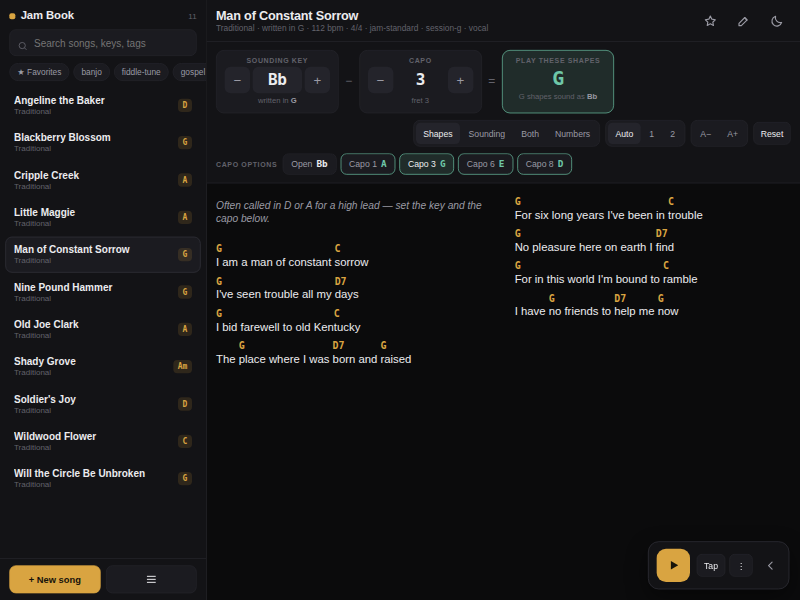
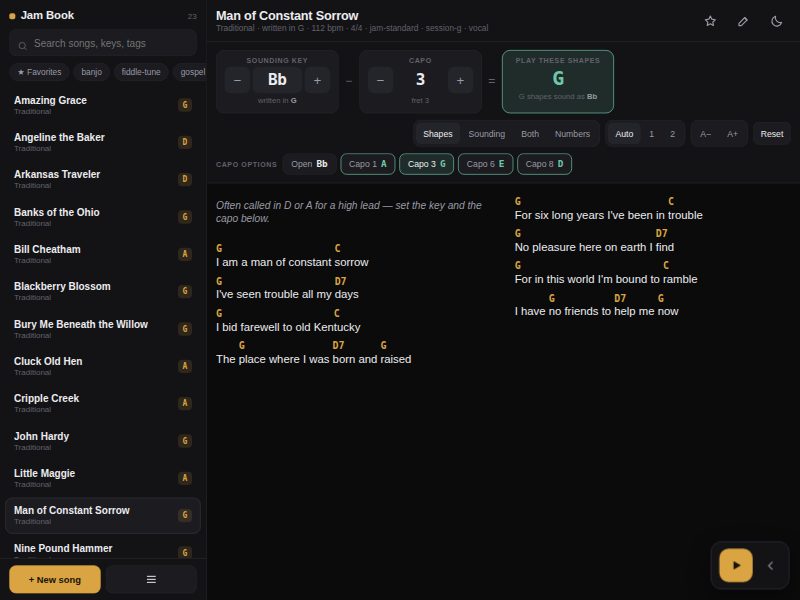
feat(jam-book): twelve more traditional standards, and follow the chart's meter
Brings the starter catalog to 23 public-domain tunes: Whiskey Before
Breakfast, Red Haired Boy, Arkansas Traveler, Sally Goodin, Bill Cheatham,
Cluck Old Hen, Roll in My Sweet Baby's Arms, Banks of the Ohio, Wayfaring
Stranger, Bury Me Beneath the Willow, John Hardy and Amazing Grace —
fiddle tunes as bar grids, songs with verse/chorus, two waltzes and a
minor-key gospel number.

Opening a song now also sets the metronome's meter from {time:}, not just
the tempo from {tempo:}, so the waltzes click in 3/4 on their own. Neither
is changed out from under you while the metronome is running.

Claude-Session: https://claude.ai/code/session_01WY38kPURCNg8E5UMwB1aYA

diff --git a/apps/jam-book/index.html b/apps/jam-book/index.html
@@ -848,6 +848,15 @@ function keysFor(song) {
 }
 function clampCapo(n) { return Math.max(0, Math.min(MAX_CAPO, parseInt(n, 10) || 0)); }
 
+/* {time: 3/4} -> three beats to the bar. Only the meters the metronome offers. */
+function beatsFromTime(time) {
+  const m = String(time || '').match(/^(\d+)\s*\/\s*(\d+)$/);
+  if (!m) return 0;
+  const top = +m[1], bottom = +m[2];
+  if (bottom === 8 && top === 6) return 6;
+  return [2, 3, 4].includes(top) ? top : 0;
+}
+
 /* ------------------------------------------------------------ rendering */
 function renderChart() {
   const chart = el('chart');
@@ -1045,8 +1054,11 @@ function selectSong(id) {
   renderChart();
   const song = currentSong();
   if (song) {
-    const t = songInfo(song).meta.tempo;
-    if (t) setBpm(t, true);
+    /* the chart carries the feel — follow it unless the metronome is running */
+    const meta = songInfo(song).meta;
+    if (meta.tempo && !met.on) setBpm(meta.tempo, true);
+    const beats = beatsFromTime(meta.time);
+    if (beats && !met.on) setBeats(beats);
   }
   el('chartScroll').scrollTop = 0;
   document.body.classList.remove('nav-open');
@@ -1464,9 +1476,12 @@ function wire() {
   });
   on('metSongTempo', 'click', () => {
     const s = currentSong();
-    const t = s && songInfo(s).meta.tempo;
-    if (t) { setBpm(t); toast('Tempo from the chart: ' + t + ' bpm'); }
+    const meta = s && songInfo(s).meta;
+    const beats = meta && beatsFromTime(meta.time);
+    if (beats) setBeats(beats);
+    if (meta && meta.tempo) toast('From the chart: ' + meta.tempo + ' bpm' + (meta.time ? ', ' + meta.time : ''));
     else toast('This chart has no {tempo:} set');
+    if (meta && meta.tempo) setBpm(meta.tempo);
   });
 
   /* keyboard shortcuts (handy with an iPad keyboard) */
@@ -1746,7 +1761,254 @@ I have [G]no friends to [D7]help me [G]now
 [G]Just to get a little [D7]brew, just to get a little [G]brew
 {end_of_verse}
 
-{chorus}`
+{chorus}`,
+
+`{title: Whiskey Before Breakfast}
+{artist: Traditional}
+{key: D}
+{tempo: 120}
+{time: 4/4}
+{tags: fiddle-tune, jam-standard, session-d, instrumental}
+{comment: Called everywhere. Both parts sit in first position in D.}
+
+{start_of_grid: A part}
+| D . . . | G . . . | D . . . | A . . . |
+| D . . . | G . . . | D . A . | D . . . |
+{end_of_grid}
+
+{start_of_grid: B part}
+| D . . . | G . . . | D . . . | A . . . |
+| D . . . | G . . . | D . A . | D . . . |
+{end_of_grid}`,
+
+`{title: Red Haired Boy}
+{artist: Traditional}
+{key: A}
+{tempo: 122}
+{time: 4/4}
+{tags: fiddle-tune, jam-standard, modal, instrumental}
+{comment: Mixolydian — that G is the flat seven. Also called The Little Beggarman.}
+
+{start_of_grid: A part}
+| A . . . | G . . . | A . . . | A . E . |
+| A . . . | G . . . | A . E . | A . . . |
+{end_of_grid}
+
+{start_of_grid: B part}
+| A . . . | G . . . | A . . . | A . E . |
+| A . . . | G . . . | A . E . | A . . . |
+{end_of_grid}`,
+
+`{title: Arkansas Traveler}
+{artist: Traditional}
+{key: D}
+{tempo: 126}
+{time: 4/4}
+{tags: fiddle-tune, jam-standard, session-d, instrumental}
+
+{start_of_grid: A part}
+| D . . . | D . . . | D . . . | A . . . |
+| D . . . | D . . . | A . . . | D . . . |
+{end_of_grid}
+
+{start_of_grid: B part}
+| G . . . | D . . . | G . . . | D . A . |
+| G . . . | D . . . | A . . . | D . . . |
+{end_of_grid}`,
+
+`{title: Sally Goodin}
+{artist: Traditional}
+{key: A}
+{tempo: 130}
+{time: 4/4}
+{tags: fiddle-tune, jam-standard, instrumental}
+{comment: Two chords and a hundred variations — everyone takes a different one.}
+
+{start_of_grid: A part}
+| A . . . | A . . . | A . . . | E . . . |
+| A . . . | A . . . | E . . . | A . . . |
+{end_of_grid}
+
+{start_of_grid: B part}
+| A . . . | A . . . | E . . . | E . . . |
+| A . . . | A . . . | E . . . | A . . . |
+{end_of_grid}`,
+
+`{title: Bill Cheatham}
+{artist: Traditional}
+{key: A}
+{tempo: 128}
+{time: 4/4}
+{tags: fiddle-tune, jam-standard, instrumental}
+
+{start_of_grid: A part}
+| A . . . | A . . . | D . . . | A . . . |
+| A . . . | A . . . | E . . . | A . . . |
+{end_of_grid}
+
+{start_of_grid: B part}
+| D . . . | D . . . | A . . . | A . . . |
+| D . . . | D . . . | A . E . | A . . . |
+{end_of_grid}`,
+
+`{title: Cluck Old Hen}
+{artist: Traditional}
+{key: A}
+{tempo: 118}
+{time: 4/4}
+{tags: fiddle-tune, modal, old-time, banjo}
+{comment: Modal A. Crooked in a lot of settings — follow whoever started it.}
+
+{start_of_grid: A part}
+| A . . . | A . . . | G . . . | A . . . |
+| A . . . | A . . . | G . . . | A . . . |
+{end_of_grid}
+
+{start_of_verse}
+[A]My old hen's a good old hen
+She lays eggs for the [G]railroad [A]men
+Sometimes one, sometimes two
+Sometimes enough for the [G]whole damn [A]crew
+{end_of_verse}`,
+
+`{title: Roll in My Sweet Baby's Arms}
+{artist: Traditional}
+{key: G}
+{tempo: 124}
+{time: 4/4}
+{tags: jam-standard, session-g, vocal}
+{comment: The first song most pickers learn to sing at a jam.}
+
+{start_of_chorus}
+[G]Roll in my sweet baby's arms
+Roll in my sweet baby's [D7]arms
+[C]Lay around the shack till the [G]mail train comes back
+Then I'll [D7]roll in my sweet baby's [G]arms
+{end_of_chorus}
+
+{start_of_verse}
+[G]Ain't gonna work on the railroad
+Ain't gonna work on the [D7]farm
+[C]Lay around the shack till the [G]mail train comes back
+And [D7]roll in my sweet baby's [G]arms
+{end_of_verse}
+
+{start_of_verse}
+[G]Now where were you last Friday night
+While I was lyin' in [D7]jail
+[C]Walkin' the streets with a[G]nother man
+Wouldn't even [D7]go my [G]bail
+{end_of_verse}
+
+{chorus}`,
+
+`{title: Banks of the Ohio}
+{artist: Traditional}
+{key: G}
+{tempo: 100}
+{time: 3/4}
+{tags: jam-standard, session-g, vocal, waltz}
+{comment: Waltz time — set the metronome to 3/4.}
+
+{start_of_verse}
+[G]I asked my love to take a walk
+To take a walk, just a little [D7]walk
+[C]Down beside where the waters [G]flow
+Down by the [D7]banks of the O[G]hio
+{end_of_verse}
+
+{start_of_chorus}
+And [G]only say that you'll be mine
+In no other arms entwined
+[C]Down beside where the waters [G]flow
+Down by the [D7]banks of the O[G]hio
+{end_of_chorus}`,
+
+`{title: Wayfaring Stranger}
+{artist: Traditional}
+{key: Am}
+{tempo: 84}
+{time: 4/4}
+{tags: gospel, minor, vocal}
+{comment: Slow and lonesome. Sounds good moved up to Bm or Cm — set the key and let the capo find the shape.}
+
+{start_of_verse}
+[Am]I am a poor wayfaring stranger
+A-[Dm]travelin' through this world of [Am]woe
+But there's no sickness, toil or danger
+In that [E7]bright land to which I [Am]go
+{end_of_verse}
+
+{start_of_chorus}
+[Am]I'm going there to see my father
+I'm [Dm]going there no more to [Am]roam
+I'm only going over Jordan
+I'm [E7]only going over [Am]home
+{end_of_chorus}`,
+
+`{title: Bury Me Beneath the Willow}
+{artist: Traditional}
+{key: G}
+{tempo: 104}
+{time: 4/4}
+{tags: jam-standard, session-g, vocal}
+
+{start_of_verse}
+[G]My heart is sad and I'm in sorrow
+For the [C]one I love so [G]dear
+When shall I see her, oh no never
+Till we [D7]meet in heaven a[G]bove
+{end_of_verse}
+
+{start_of_chorus}
+[G]Bury me beneath the willow
+Under the [C]weeping willow [G]tree
+When she hears that I am sleeping
+Maybe [D7]then she'll think of [G]me
+{end_of_chorus}`,
+
+`{title: John Hardy}
+{artist: Traditional}
+{key: G}
+{tempo: 126}
+{time: 4/4}
+{tags: jam-standard, session-g, vocal, banjo}
+
+{start_of_verse}
+[G]John Hardy was a desperate little man
+He carried two guns every [C]day
+He [G]shot a man on the West Virginia line
+You ought to seen John Hardy gettin' a[D7]way, poor [G]boy
+{end_of_verse}
+
+{start_of_verse}
+[G]John Hardy stood at the gamblin' table
+Didn't have no interest in the [C]game
+Up [G]stepped a yellow gal and threw a dollar down
+Said deal John Hardy in the [D7]game, poor [G]boy
+{end_of_verse}`,
+
+`{title: Amazing Grace}
+{artist: Traditional}
+{key: G}
+{tempo: 76}
+{time: 3/4}
+{tags: gospel, vocal, waltz}
+{comment: Waltz. Everyone knows the words, so pick a key the room can sing in.}
+
+{start_of_verse}
+A[G]mazing grace how [C]sweet the [G]sound
+That saved a wretch like [D7]me
+I [G]once was lost but [C]now am [G]found
+Was [D7]blind but now I [G]see
+{end_of_verse}
+
+{start_of_verse}
+'Twas [G]grace that taught my [C]heart to [G]fear
+And grace my fears re[D7]lieved
+How [G]precious did that [C]grace ap[G]pear
+The [D7]hour I first be[G]lieved
+{end_of_verse}`
 ];
 
 function seedSongs() { return SEED_SOURCES.map(src => makeSong(src)); }

diff --git a/apps/jam-book/README.md b/apps/jam-book/README.md
@@ -96,8 +96,9 @@ becomes `[G]This nine pound [C]hammer is a little too heavy`.
   into two columns so a whole song fits without scrolling. Auto / 1 / 2 column switch, and A− / A+
   text sizing for reading at arm's length.
 - **Light and dark** — dark by default, paper-light for bright rooms.
-- **Metronome** — tap tempo, `{tempo:}` from the chart, 4/4 · 3/4 · 2/4 · 6/8, accented downbeat, and
-  a backbeat-only mode for chop practice. Web Audio, scheduled ahead so it doesn't drift.
+- **Metronome** — opening a song picks up its `{tempo:}` and `{time:}` (waltzes switch to 3/4 on
+  their own). Tap tempo, 4/4 · 3/4 · 2/4 · 6/8, accented downbeat, and a backbeat-only mode for chop
+  practice. Web Audio, scheduled ahead so it doesn't drift.
 - **Search and filters** — title, artist, key, tags, plus favorites.
 - **Keyboard** — `↑`/`↓` key, `←`/`→` capo, `space` metronome, `/` search.
 - **Offline** — installable PWA with a network-first service worker.
@@ -123,11 +124,21 @@ Import/export from the library menu:
 
 ## Starter songs
 
-Ships with eleven traditional, public-domain tunes — Cripple Creek, Old Joe Clark, Angeline the
-Baker, Soldier's Joy, Blackberry Blossom, Shady Grove, Little Maggie, Wildwood Flower, Will the
-Circle Be Unbroken, Man of Constant Sorrow, Nine Pound Hammer — chosen to exercise the format:
-grids, choruses, modal keys, minor keys. **Restore starter songs** in the library menu re-adds any
-you've deleted.
+Ships with 23 traditional, public-domain standards, chosen to cover the jam repertoire and to
+exercise the format — grids, choruses, modal keys, minor keys, waltzes.
+
+**Fiddle tunes** — Cripple Creek · Old Joe Clark · Angeline the Baker · Soldier's Joy · Blackberry
+Blossom · Whiskey Before Breakfast · Red Haired Boy · Arkansas Traveler · Sally Goodin · Bill
+Cheatham · Cluck Old Hen
+
+**Songs** — Man of Constant Sorrow · Nine Pound Hammer · Roll in My Sweet Baby's Arms · Little
+Maggie · Shady Grove · Wildwood Flower · Bury Me Beneath the Willow · John Hardy · Banks of the Ohio
+
+**Gospel** — Will the Circle Be Unbroken · Wayfaring Stranger · Amazing Grace
+
+They are chord skeletons for jamming, not definitive settings — every tune has a dozen variants, so
+edit them to whatever your circle plays. **Restore starter songs** in the library menu re-adds any
+you've deleted (and picks up new ones if the app already has a library saved).
 
 ## Setup
 
